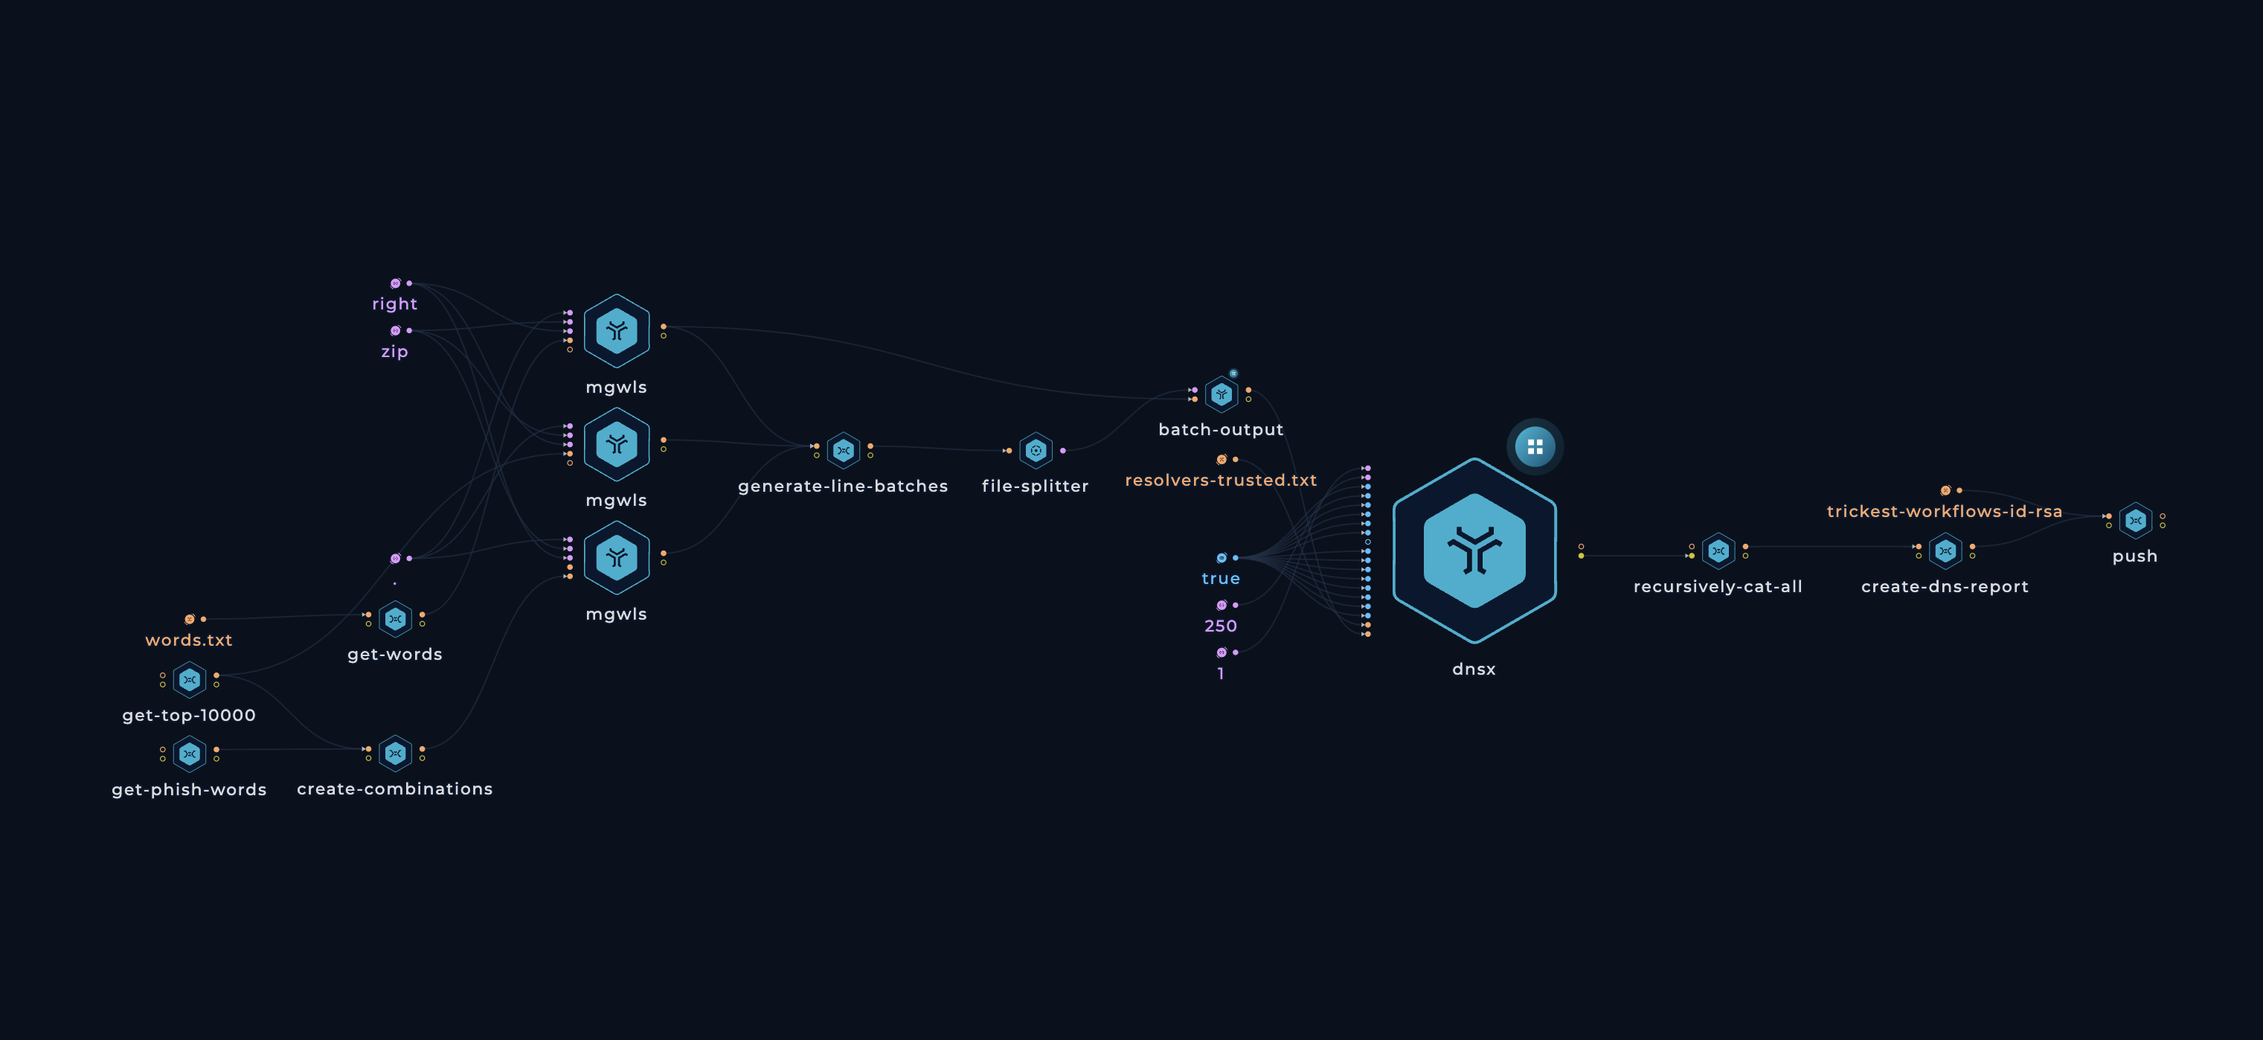
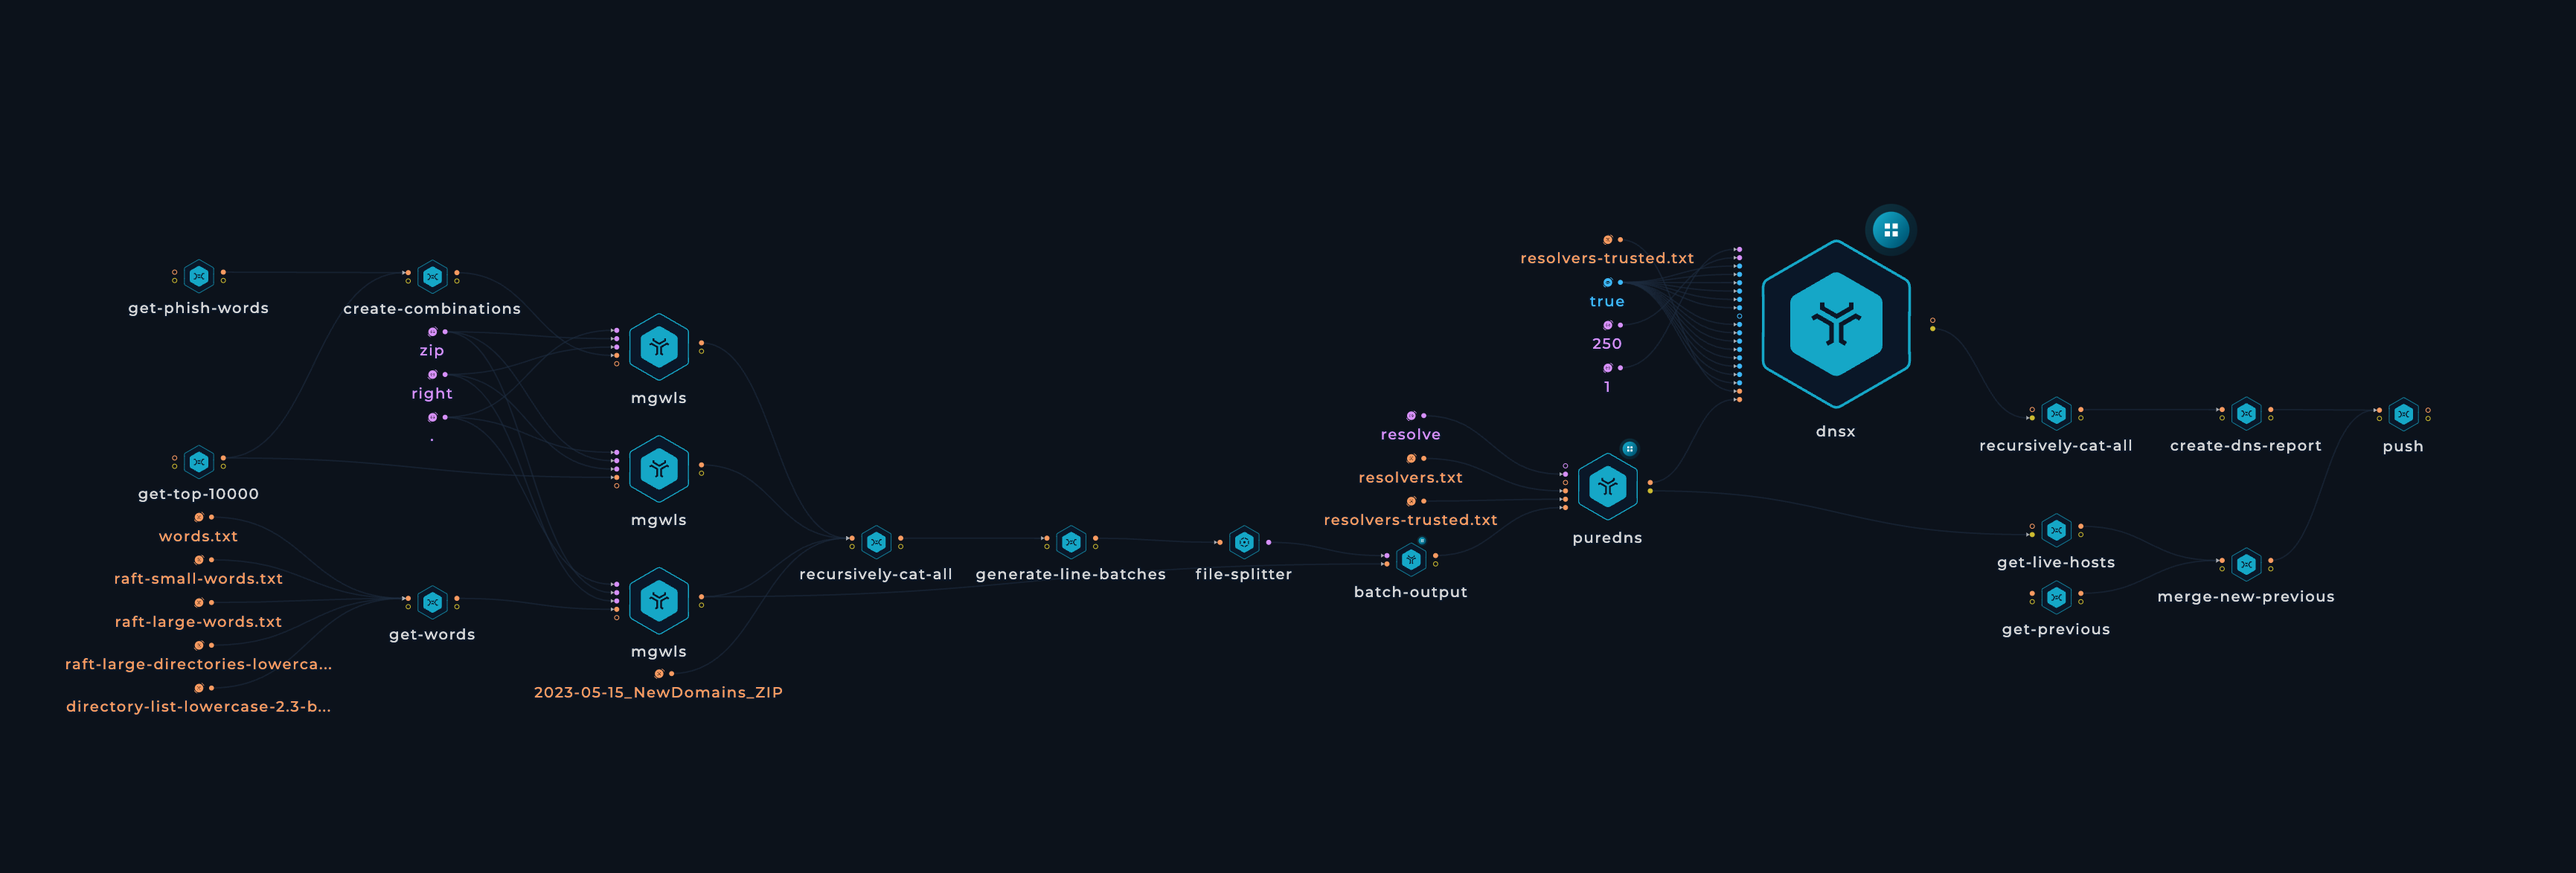
Update Readme, workflow

diff --git a/README.md b/README.md
@@ -1,9 +1,16 @@
 <h1 align="center">ZIP Domains <a href="https://twitter.com/intent/tweet?text=Newly%20registered%20.zip%20domains%0Ahttps%3A%2F%2Fgithub.com%2Ftrickest%2Fzip"><img src="https://img.shields.io/badge/Tweet--lightgrey?logo=twitter&style=social" alt="Tweet" height="20"/></a></h1>
 <h3 align="center">Newly registered .zip domains</h3>
 
-Our mission with this project is to provide an update data on newly registered [.zip domains.](https://domains.google/tld/zip/)
+Welcome to our project dedicated to providing up-to-date data on newly registered .zip domains. With the recent introduction of the [.zip top-level domain (TLD)](https://domains.google/tld/zip/) by Google, [concerns have arisen](https://medium.com/@bobbyrsec/the-dangers-of-googles-zip-tld-5e1e675e59a5) within the community regarding potential attack vectors associated with this TLD. To address these concerns and ensure the safety of internet users, we have initiated this workflow aimed at gathering comprehensive information about .zip domains as they are registered.
 
-As we saw, community is worried on [potential attack vectors](https://medium.com/@bobbyrsec/the-dangers-of-googles-zip-tld-5e1e675e59a5) that could be used.
+
+## Objective
+
+Our mission is to provide a reliable and regularly updated dataset that contains valuable insights into newly registered .zip domains. By systematically collecting and analyzing information, we aim to shed light on potential risks and help the community make informed decisions when interacting with these domains. Our project focuses on promoting online security and mitigating any potential threats associated with the .zip TLD.
+
+### Disclaimer
+
+While we strive to provide accurate and up-to-date information, it is important to note that our project serves as a supplementary resource and should not be considered a definitive indicator of the security status of any .zip domain. It is crucial for users to exercise their own judgment and employ additional security measures when interacting with any domain, including those under the .zip TLD.
 
 # DNS Data
 
@@ -25,6 +32,7 @@ Here's an example of how the data is structured in the CSV files:
 | Filename | Hosts                                          | SOA                            | NS                                                                 | Status Code | A                                                              | CDN | CDN Name | AAAA                          | MX | TXT | CNAME | CAA | PTR | Has Internal IPs | Internal IPs                                    |
 |----------|------------------------------------------------|--------------------------------|--------------------------------------------------------------------|-------------|----------------------------------------------------------------|-----|----------|-------------------------------|----|-----|-------|-----|-----|------------------|------------------------------------------------|
 | backup.zip  | ns1.name.com, hostmaster.nsone.net              | ns4fmw.name.com, ns2dky.name.com, ns1bdg.name.com, ns3dkz.name.com | NOERROR                                                            |             | 91.195.240.94, 163.114.216.17, 163.114.216.49, 163.114.217.17, 163.114.217.49 |     |          | 2a00:edc0:107::49              |    |     |       |     |     |                  |                                                  |
+| microsoft-office.zip  | ns1.name.com, hostmaster.nsone.net              | ns4fmw.name.com, ns2dky.name.com, ns1bdg.name.com, ns3dkz.name.com | NOERROR                                                            |             | 91.195.240.94, 163.114.216.17, 163.114.216.49, 163.114.217.17, 163.114.217.49 |     |          | 2a00:edc0:107::49              |    |     |       |     |     |                  |                                                  |
 ## How It Works
 
 ![Trickest Workflow - SSL](images/zip.png "Trickest Workflow - zip")
@@ -32,7 +40,22 @@ Here's an example of how the data is structured in the CSV files:
 
 1. Download [479k English words](https://github.com/dwyl/english-words) to be used as wordlist
 2. Download top [10 Million Websites](https://www.domcop.com/top-10-million-websites). Use a bash script to delete .tlds and get only the company names
-3. Use bash to create permutations
+3. Use bash to create permutations for company names with wordlists (`backup`, `update`, etc)
+
+```
+while read -r word; do
+    while read -r line; do
+        echo "${word}${line}"
+        echo "${line}${word}"
+        echo "${line}-${word}"
+        echo "${word}-${line}"
+    done < domains.txt
+done < words.txt
+```
+4. Download [NewDomains_ZIP File](https://raw.githubusercontent.com/CronUp/EnAnalisis/main/2023-05-15_NewDomains_ZIP) and merge it with all generated data
+5. Use [raft-small-words](https://raw.githubusercontent.com/danielmiessler/SecLists/master/Discovery/Web-Content/raft-small-words.txt), [raft-large-words](https://raw.githubusercontent.com/danielmiessler/SecLists/master/Discovery/Web-Content/raft-large-words.txt), [raft-large-directories-lowercase](https://raw.githubusercontent.com/danielmiessler/SecLists/master/Discovery/Web-Content/raft-large-directories-lowercase.txt), [directory-list-lowercase-2.3-big](https://raw.githubusercontent.com/danielmiessler/SecLists/master/Discovery/Web-Content/directory-list-lowercase-2.3-big.txt)
+6. Use [mgwls](https://github.com/trickest/mgwls) to generate `.zip` tlds
+7. Use bash to create permutations
 
 ```
 while read -r word; do
@@ -46,10 +69,11 @@ done < words.txt
 ```
 
 4. Generate batched pattern to be able to execute the workflow in parallel on 50 machines
-5. Use dnsx to resolve and get JSON data
-6. Merge the data from parallel executions
-7. Create CSV `zip-domains.csv` 
-8. Push to repository
+5. Use [puredns](https://github.com/d3mondev/puredns) for faster resolving
+6. Use [dnsx](https://github.com/projectdiscovery/dnsx) to resolve and get JSON data
+7. Merge the data from parallel executions
+8. Create CSV `zip-domains.csv`  with `python`
+9. Push to repository
 
 ## Contribution
 All contributions/ideas/suggestions are welcome! Feel free to create a new ticket via [GitHub issues](https://github.com/trickest/cloud/issues), tweet at us [@trick3st](https://twitter.com/trick3st), or join the conversation on [Discord](https://discord.gg/7HZmFYTGcQ).
